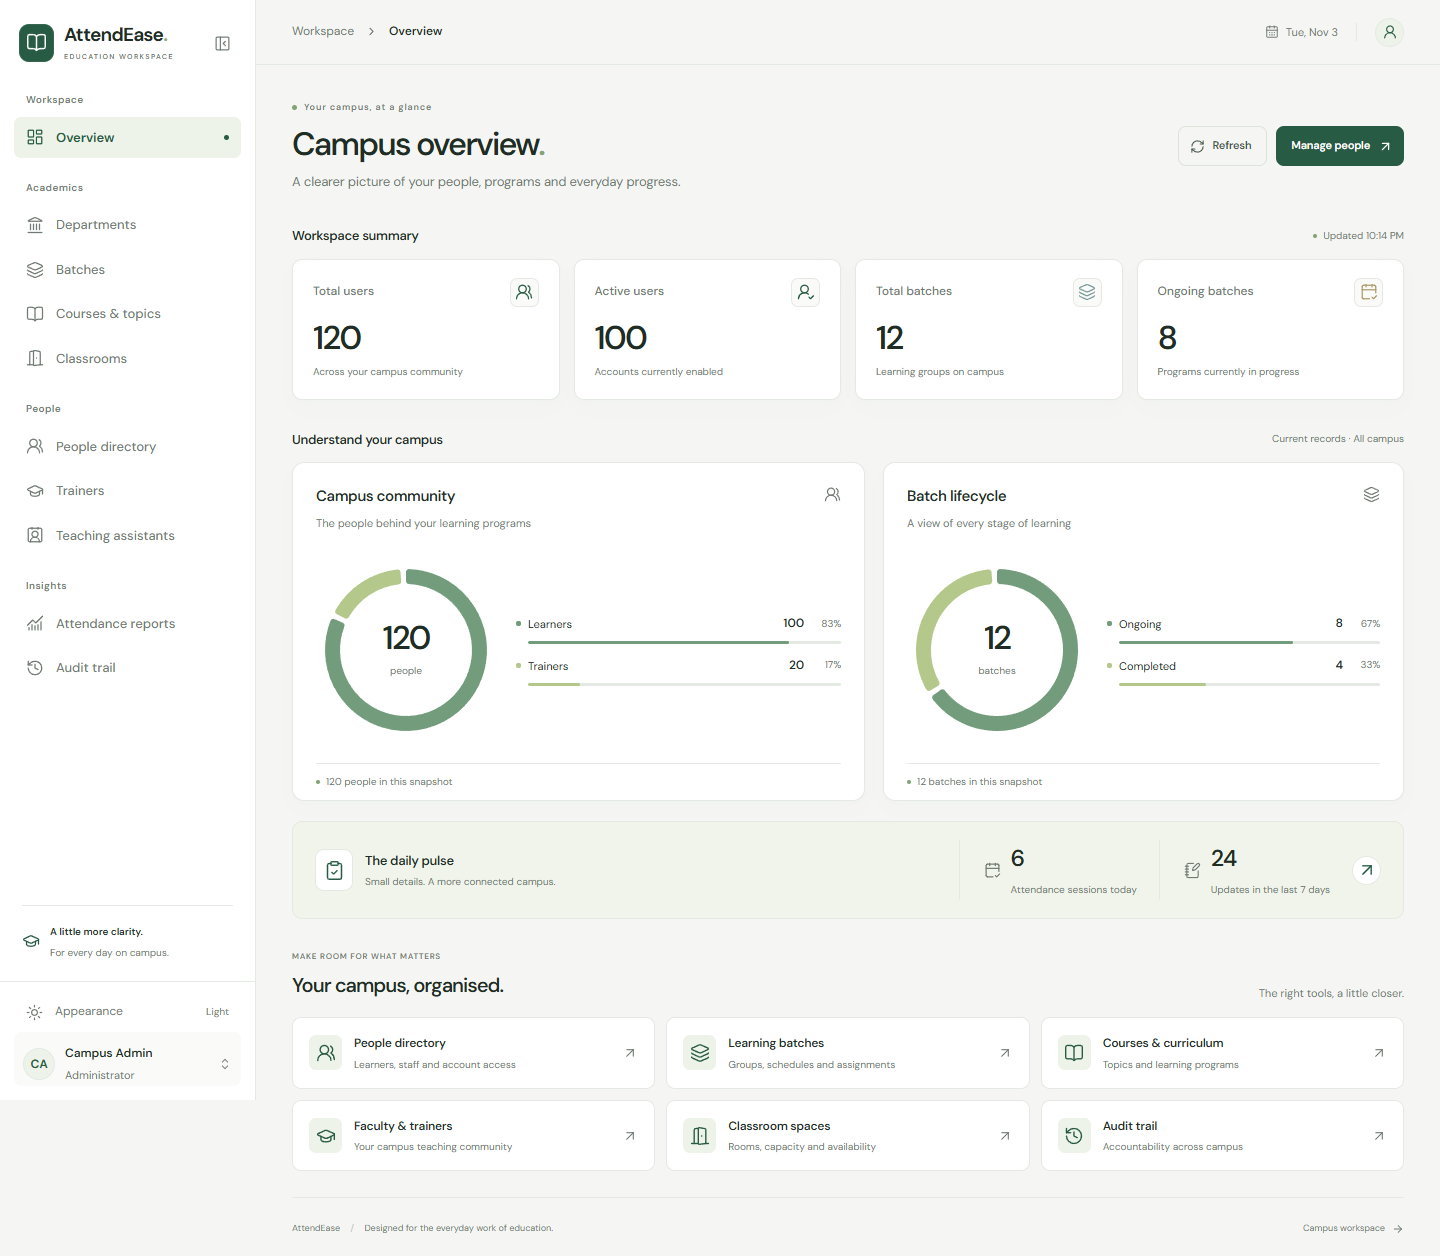
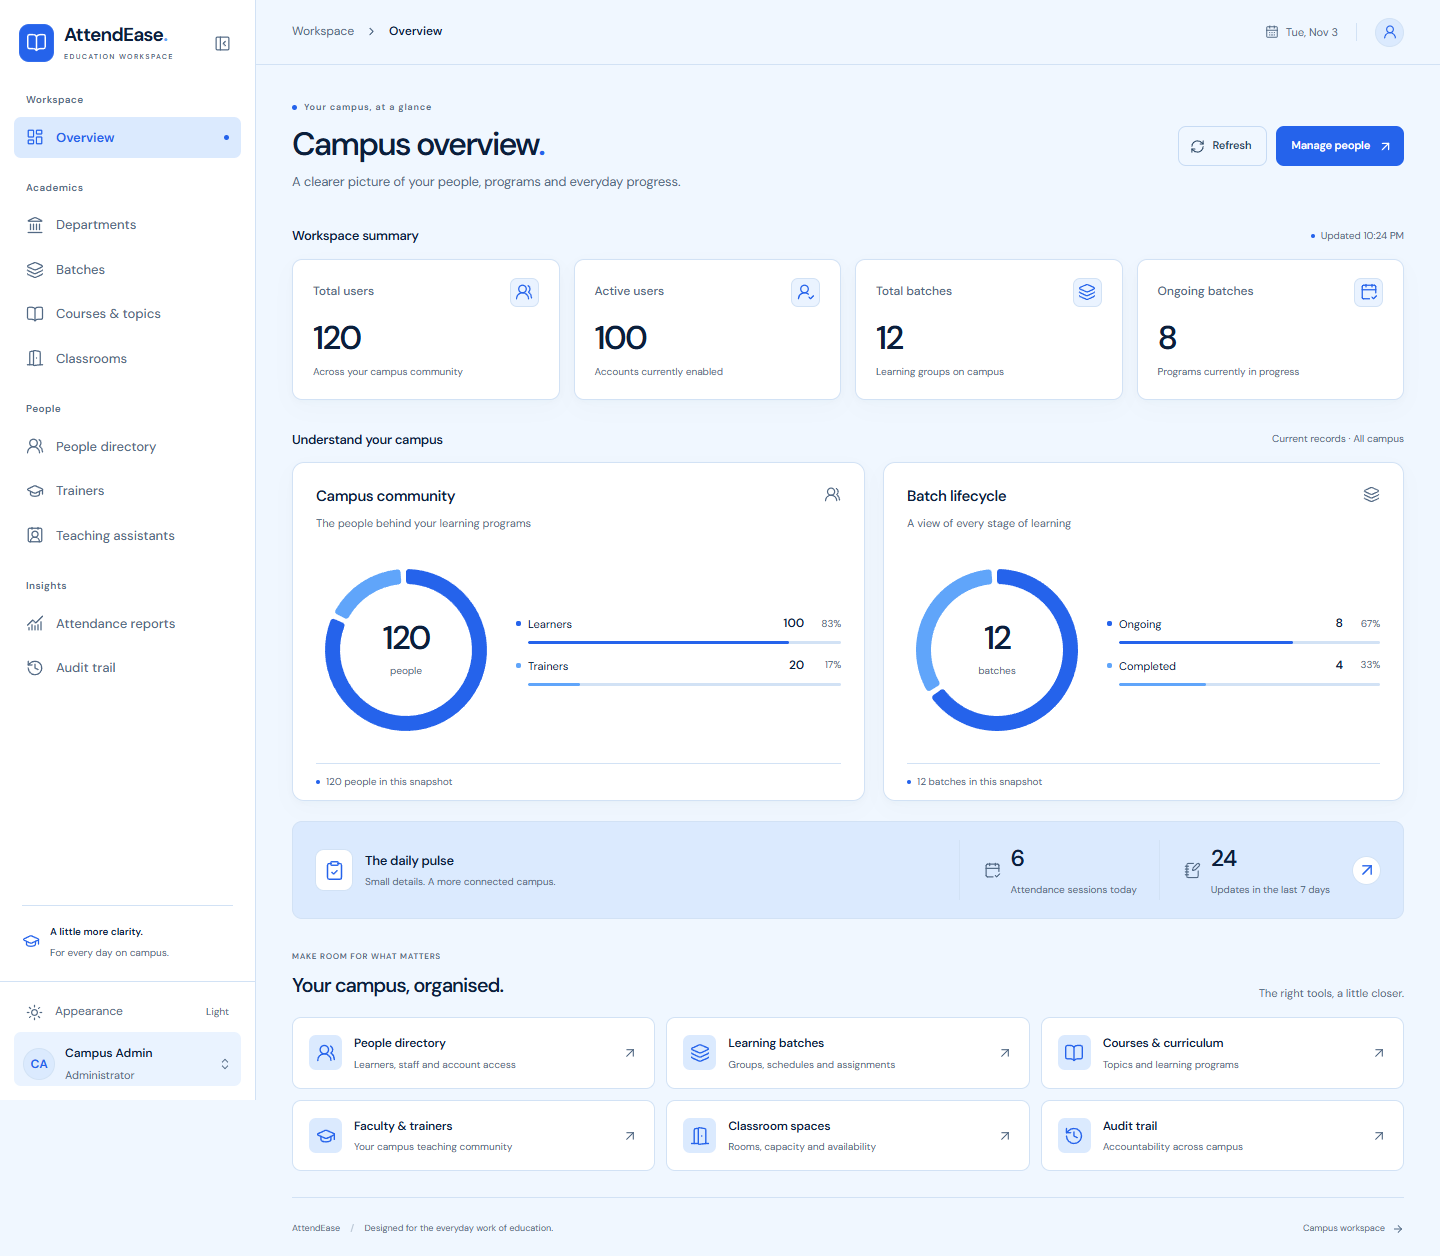
style(ui): apply requested navy and blue palette

diff --git a/frontend/src/index.css b/frontend/src/index.css
@@ -12,14 +12,14 @@ body {
   font-family: 'DM Sans Variable', 'DM Sans', system-ui, sans-serif;
   -webkit-font-smoothing: antialiased;
   -moz-osx-font-smoothing: grayscale;
-  background-color: #f5f6f3;
-  color: #202d25;
+  background-color: #F0F7FF;
+  color: #0B1F3B;
   transition: background-color 0.2s ease, color 0.2s ease;
 }
 
 html.dark body {
-  background-color: #111614;
-  color: #edf2ed;
+  background-color: #081426;
+  color: #F0F7FF;
 }
 
 #root {
@@ -286,27 +286,27 @@ html.dark .border-green-100 {
 
 /* AttendEase workspace design system */
 :root {
-  --campus-bg: #f5f6f3;
+  --campus-bg: #F0F7FF;
   --campus-surface: #fff;
-  --campus-elevated: #fafbf8;
-  --campus-text: #202d25;
-  --campus-muted: #717b73;
-  --campus-border: #e5e9e3;
-  --campus-accent: #285b43;
-  --campus-accent-soft: #edf3e9;
-  --campus-tint: #f1f4eb;
-  --campus-shadow: 0 2px 5px #263b2b03, 0 8px 24px #263b2b03;
+  --campus-elevated: #EAF3FF;
+  --campus-text: #0B1F3B;
+  --campus-muted: #526984;
+  --campus-border: #D2E2F5;
+  --campus-accent: #2563EB;
+  --campus-accent-soft: #DBEAFE;
+  --campus-tint: #DBEAFE;
+  --campus-shadow: 0 2px 5px #0b1f3b05, 0 8px 24px #0b1f3b05;
 }
 html.dark {
-  --campus-bg: #111614;
-  --campus-surface: #191f1c;
-  --campus-elevated: #1e2621;
-  --campus-text: #edf2ed;
-  --campus-muted: #a3aea6;
-  --campus-border: #2c352f;
-  --campus-accent: #a8d5b7;
-  --campus-accent-soft: #263b2d;
-  --campus-tint: #222d25;
+  --campus-bg: #081426;
+  --campus-surface: #0B1F3B;
+  --campus-elevated: #102747;
+  --campus-text: #F0F7FF;
+  --campus-muted: #AFC6E1;
+  --campus-border: #233D60;
+  --campus-accent: #60A5FA;
+  --campus-accent-soft: #15345C;
+  --campus-tint: #102747;
   --campus-shadow: none;
 }
 .campus-app { color: var(--campus-text); font-size: 13px; }
@@ -317,9 +317,9 @@ a, button, input { -webkit-tap-highlight-color: transparent; }
 .campus-sidebar { position: fixed; top: 0; left: 0; bottom: 0; height: 100dvh; z-index: 50; display: flex; flex-direction: column; background: var(--campus-surface); border-right: 1px solid var(--campus-border); transition: width .2s ease; }
 .sidebar-brand { min-height: 86px; display: flex; align-items: center; padding: 0 19px; gap: 9px; }
 .brand-link { display: flex; gap: 10px; align-items: center; flex: 1; color: var(--campus-text); text-decoration: none; min-width: 0; }
-.brand-mark { width: 35px; height: 38px; border-radius: 10px; background: #285b43; color: #fff; display: grid; place-items: center; box-shadow: inset 0 0 0 1px #ffffff12; flex-shrink: 0; }
+.brand-mark { width: 35px; height: 38px; border-radius: 10px; background: #2563EB; color: #fff; display: grid; place-items: center; box-shadow: inset 0 0 0 1px #ffffff12; flex-shrink: 0; }
 .brand-link strong { font-size: 19px; font-weight: 650; letter-spacing: -.8px; line-height: 1.3; }
-.brand-period { color: #92ae7b; }
+.brand-period { color: #60A5FA; }
 .brand-link small { display: block; margin-top: 3px; font-size: 7px; font-weight: 550; letter-spacing: 1.4px; color: var(--campus-muted); }
 .sidebar-toggle.MuiIconButton-root { padding: 5px; color: var(--campus-muted); }
 .sidebar-navigation { flex: 1; overflow-y: auto; scrollbar-width: thin; padding: 6px 14px 12px; }
@@ -361,9 +361,9 @@ a, button, input { -webkit-tap-highlight-color: transparent; }
 .dashboard-view { display: grid; gap: 0; animation: workspace-reveal .45s ease-out both; }
 .dashboard-heading { display: flex; align-items: center; justify-content: space-between; gap: 24px; padding-bottom: 33px; }
 .page-eyebrow { display: flex; align-items: center; gap: 7px; font-size: 9px; font-weight: 550; letter-spacing: .1em; color: var(--campus-muted); }
-.page-eyebrow > span { width: 5px; height: 5px; border-radius: 50%; background: #83a276; }
+.page-eyebrow > span { width: 5px; height: 5px; border-radius: 50%; background: var(--campus-accent); }
 .dashboard-heading h1 { margin: 10px 0 7px; font-size: clamp(26px, 2.25vw, 35px); font-weight: 550; line-height: 1.2; letter-spacing: -.055em; }
-.heading-period { color: #83a276; }
+.heading-period { color: var(--campus-accent); }
 .dashboard-heading p { color: var(--campus-muted); font-size: 12px; letter-spacing: -.01em; }
 .dashboard-heading-actions { display: flex; gap: 9px; flex-shrink: 0; }
 .dashboard-heading-actions .MuiButton-root { font-size: 11px; }
@@ -371,14 +371,14 @@ a, button, input { -webkit-tap-highlight-color: transparent; }
 .section-meta, .analytics-section-heading { display: flex; justify-content: space-between; align-items: center; gap: 12px; margin-bottom: 12px; }
 .section-meta h2, .analytics-section-heading h2 { font-size: 12px; font-weight: 550; letter-spacing: -.02em; }
 .section-meta > span, .analytics-section-heading > span { display: flex; align-items: center; gap: 6px; font-size: 9px; color: var(--campus-muted); }
-.small-status-dot { display: inline-block; width: 4px; height: 4px; border-radius: 50%; background: #83a276; flex-shrink: 0; }
+.small-status-dot { display: inline-block; width: 4px; height: 4px; border-radius: 50%; background: var(--campus-accent); flex-shrink: 0; }
 .metric-grid { display: grid; grid-template-columns: repeat(4, minmax(0, 1fr)); gap: 14px; margin-bottom: 29px; }
 .metric-card.MuiPaper-root { padding: 18px 20px; border: 1px solid var(--campus-border); border-radius: 10px; box-shadow: var(--campus-shadow); transition: border-color .2s, box-shadow .2s; }
-.metric-card:hover { border-color: #90a18f; }
+.metric-card:hover { border-color: #60A5FA; }
 .metric-heading { display: flex; align-items: center; justify-content: space-between; gap: 9px; color: var(--campus-muted); font-size: 11px; font-weight: 500; }
 .metric-icon { display: grid; place-items: center; width: 29px; height: 29px; border: 1px solid var(--campus-border); border-radius: 7px; color: var(--campus-accent); background: var(--campus-elevated); }
-.metric-warning .metric-icon { color: #b19b6d; }
-.metric-info .metric-icon { color: #7a9b9b; }
+.metric-warning .metric-icon { color: var(--campus-accent); }
+.metric-info .metric-icon { color: var(--campus-accent); }
 .metric-value { font-size: 33px; font-weight: 550; line-height: 1.3; letter-spacing: -.055em; font-variant-numeric: tabular-nums; margin: 10px 0 5px; }
 .metric-caption { font-size: 9px; color: var(--campus-muted); }
 .analytics-grid { display: grid; grid-template-columns: 1.1fr 1fr; gap: 18px; margin-bottom: 20px; }
@@ -421,7 +421,7 @@ a, button, input { -webkit-tap-highlight-color: transparent; }
 .resource-section-heading > p { font-size: 10px; color: var(--campus-muted); }
 .resource-grid { display: grid; grid-template-columns: repeat(3, minmax(0, 1fr)); gap: 11px; }
 .resource-card { display: flex; align-items: center; gap: 12px; border: 1px solid var(--campus-border); border-radius: 9px; background: var(--campus-surface); color: var(--campus-text); padding: 16px; text-decoration: none; transition: border-color .15s, background .15s; min-width: 0; }
-.resource-card:hover { border-color: #95aa96; background: var(--campus-elevated); }
+.resource-card:hover { border-color: #60A5FA; background: var(--campus-elevated); }
 .resource-icon { width: 33px; height: 35px; display: grid; place-items: center; border-radius: 7px; background: var(--campus-accent-soft); color: var(--campus-accent); flex-shrink: 0; }
 .resource-card > div { flex: 1; min-width: 0; }
 .resource-card h3 { font-size: 11px; font-weight: 550; letter-spacing: -.015em; }

diff --git a/frontend/src/theme.js b/frontend/src/theme.js
@@ -5,11 +5,11 @@ export const createCampusTheme = mode => {
     return createTheme({
         palette: {
             mode,
-            primary: { main: dark ? '#a8d5b7' : '#285b43', contrastText: dark ? '#15271c' : '#ffffff' },
-            secondary: { main: dark ? '#c8b88b' : '#8a7242' },
-            background: { default: dark ? '#111614' : '#f5f6f3', paper: dark ? '#191f1c' : '#ffffff' },
-            text: { primary: dark ? '#edf2ed' : '#202d25', secondary: dark ? '#a3aea6' : '#717b73' },
-            divider: dark ? '#2c352f' : '#e5e9e3',
+            primary: { main: '#2563EB', contrastText: '#ffffff' },
+            secondary: { main: '#60A5FA' },
+            background: { default: dark ? '#081426' : '#F0F7FF', paper: dark ? '#0B1F3B' : '#ffffff' },
+            text: { primary: dark ? '#F0F7FF' : '#0B1F3B', secondary: dark ? '#AFC6E1' : '#526984' },
+            divider: dark ? '#233D60' : '#D2E2F5',
             success: { main: dark ? '#9dccab' : '#397957' },
         },
         shape: { borderRadius: 12 },
@@ -31,13 +31,13 @@ export const createCampusTheme = mode => {
             MuiPaper: { defaultProps: { elevation: 0 }, styleOverrides: { root: { backgroundImage: 'none' } } },
             MuiButton: { defaultProps: { disableElevation: true }, styleOverrides: {
                 root: { borderRadius: 8, padding: '9px 15px', fontSize: '.8125rem', boxShadow: 'none', minHeight: 38 },
-                outlined: { borderColor: dark ? '#354139' : '#dce3da', color: dark ? '#d7e3d9' : '#45554a', '&:hover': { borderColor: dark ? '#6c8573' : '#9aac9d', background: dark ? '#253027' : '#f1f5ee' } },
+                outlined: { borderColor: dark ? '#315074' : '#C7DBF4', color: dark ? '#DBEAFE' : '#274361', '&:hover': { borderColor: dark ? '#60A5FA' : '#60A5FA', background: dark ? '#15345C' : '#DBEAFE' } },
             } },
-            MuiOutlinedInput: { styleOverrides: { root: { borderRadius: 8, fontSize: '.875rem' }, notchedOutline: { borderColor: dark ? '#3a453e' : '#dce3da' } } },
+            MuiOutlinedInput: { styleOverrides: { root: { borderRadius: 8, fontSize: '.875rem' }, notchedOutline: { borderColor: dark ? '#315074' : '#C7DBF4' } } },
             MuiInputLabel: { styleOverrides: { root: { fontSize: '.875rem' } } },
             MuiChip: { styleOverrides: { root: { borderRadius: 6, fontSize: '.7rem', fontWeight: 550 } } },
             MuiIconButton: { styleOverrides: { root: { borderRadius: 8 } } },
-            MuiTableCell: { styleOverrides: { root: { borderColor: dark ? '#2c352f' : '#e5e9e3', fontSize: '.8125rem', padding: '14px 18px' }, head: { fontSize: '.6875rem', fontWeight: 600, letterSpacing: '.045em', color: dark ? '#a3aea6' : '#717b73', background: dark ? '#1d2520' : '#f8faf6' } } },
+            MuiTableCell: { styleOverrides: { root: { borderColor: dark ? '#233D60' : '#D2E2F5', fontSize: '.8125rem', padding: '14px 18px' }, head: { fontSize: '.6875rem', fontWeight: 600, letterSpacing: '.045em', color: dark ? '#AFC6E1' : '#526984', background: dark ? '#102747' : '#F0F7FF' } } },
             MuiTooltip: { styleOverrides: { tooltip: { borderRadius: 6, fontSize: '.7rem', padding: '6px 10px' } } },
         },
     })

diff --git a/frontend/src/pages/Login.css b/frontend/src/pages/Login.css
@@ -1,16 +1,16 @@
 .login-shell { min-height: 100vh; min-height: 100dvh; display: grid; grid-template-columns: minmax(340px, 0.9fr) minmax(0, 1.1fr); background: var(--campus-bg); }
-.login-story { position: relative; isolation: isolate; overflow: hidden; display: flex; flex-direction: column; padding: clamp(28px, 5vw, 72px); color: white; background: linear-gradient(145deg, #142c22, #28513b 60%, #47674e); }
+.login-story { position: relative; isolation: isolate; overflow: hidden; display: flex; flex-direction: column; padding: clamp(28px, 5vw, 72px); color: white; background: linear-gradient(145deg, #0B1F3B, #123C72 60%, #2563EB); }
 .login-story > :not(.login-orbit) { position: relative; z-index: 1; }
 .login-story-content { max-width: 510px; }
-.login-eyebrow { font-size: 10px; font-weight: 550; letter-spacing: .16em; text-transform: uppercase; color: #b8cfb0; margin-bottom: 18px; }
+.login-eyebrow { font-size: 10px; font-weight: 550; letter-spacing: .16em; text-transform: uppercase; color: #93C5FD; margin-bottom: 18px; }
 .login-headline { font-size: clamp(32px, 3.5vw, 54px); line-height: 1.12; letter-spacing: -.04em; font-weight: 700; margin-bottom: 22px; }
-.login-description { color: #d0ddcf; line-height: 1.8; max-width: 390px; margin-bottom: 32px; }
+.login-description { color: #DBEAFE; line-height: 1.8; max-width: 390px; margin-bottom: 32px; }
 .login-main { display: flex; align-items: center; justify-content: center; padding: 32px; min-width: 0; }
 .login-card { animation: login-arrive .65s ease-out both; box-shadow: 0 20px 70px #1624470a !important; }
 .login-shell .lucide { width: 19px; height: 19px; stroke-width: 1.7; }
 .login-shell .login-brand-icon { width: 26px; height: 26px; stroke-width: 1.5; }
 .login-orbit { position: absolute; z-index: 0; border: 1px solid #ffffff16; border-radius: 50%; pointer-events: none; animation: login-drift 16s ease-in-out infinite alternate; }
-.login-orbit-one { width: 650px; height: 650px; right: -400px; top: -230px; background: radial-gradient(circle, #a5b4fc16, transparent 65%); }
+.login-orbit-one { width: 650px; height: 650px; right: -400px; top: -230px; background: radial-gradient(circle, #60a5fa16, transparent 65%); }
 .login-orbit-two { width: 480px; height: 480px; left: -250px; bottom: -240px; animation-delay: -8s; }
 @keyframes login-arrive { from { opacity: 0; transform: translateY(14px); } to { opacity: 1; transform: translateY(0); } }
 @keyframes login-drift { to { transform: translate3d(22px, 28px, 0) scale(1.07); } }

diff --git a/frontend/tailwind.config.js b/frontend/tailwind.config.js
@@ -12,16 +12,16 @@ export default {
             },
             colors: {
                 primary: {
-                    50: '#f1f6f0',
-                    100: '#e3eedf',
-                    200: '#cddfc6',
-                    300: '#a9c4a2',
-                    400: '#7ca279',
-                    500: '#527d58',
-                    600: '#3b6243',
-                    700: '#2a4c34',
-                    800: '#203c2a',
-                    900: '#182e21',
+                    50: '#F0F7FF',
+                    100: '#DBEAFE',
+                    200: '#BFDBFE',
+                    300: '#93C5FD',
+                    400: '#60A5FA',
+                    500: '#3B82F6',
+                    600: '#2563EB',
+                    700: '#1D4ED8',
+                    800: '#1E40AF',
+                    900: '#0B1F3B',
                 },
             },
         },

diff --git a/frontend/src/pages/Dashboard.jsx b/frontend/src/pages/Dashboard.jsx
@@ -6,7 +6,7 @@ import { ResponsiveContainer, PieChart, Pie, Cell, Tooltip } from 'recharts'
 import { dashboardAPI } from '../services/api'
 import StatsCard from '../components/ui/StatsCard'
 
-const COLORS = ['#729c7b', '#b4c88c', '#d7bc82', '#8caeac', '#a49bb9', '#ce9f8d']
+const COLORS = ['#2563EB', '#60A5FA', '#93C5FD', '#38BDF8', '#818CF8', '#BFDBFE']
 const names = { ADMIN: 'Administrators', MANAGER: 'Managers', TEAM_LEADER: 'Team leaders', TRAINER: 'Trainers', TA: 'Teaching assistants', LEARNER: 'Learners', PLANNING: 'Planning', ONGOING: 'Ongoing', COMPLETED: 'Completed', CANCELLED: 'Cancelled' }
 const label = value => names[value] || String(value || 'Unspecified').toLowerCase().replaceAll('_', ' ')
 

diff --git a/frontend/index.html b/frontend/index.html
@@ -5,7 +5,7 @@
   <meta charset="UTF-8" />
   <link rel="icon" type="image/svg+xml" href="/favicon.svg" />
   <meta name="viewport" content="width=device-width, initial-scale=1.0" />
-  <meta name="theme-color" content="#285b43" />
+  <meta name="theme-color" content="#0B1F3B" />
   <title>AttendEase — Campus Workspace</title>
   <meta name="description" content="A focused education workspace for your people, programs and everyday campus operations." />
 </head>

diff --git a/docs/PREMIUM-UI-DESIGN.md b/docs/PREMIUM-UI-DESIGN.md
@@ -5,7 +5,7 @@ Date: 2026-11-03. User direction: replace the generic appearance in the supplied
 ## Design contract
 - Retain existing routes, role permissions, real API metrics and error/empty states.
 - Self-host DM Sans Variable; replace the mix of filled navigation glyphs with Lucide outline icons at consistent 18–20px sizes and 1.7px stroke.
-- Use warm off-white/forest accents in light mode, charcoal/soft sage in dark mode, low-contrast borders, restrained elevation and a consistent 12px panel radius.
+- Use the user's navy-and-blue palette: #0B1F3B primary, #2563EB accent, #60A5FA secondary, #DBEAFE surface and #F0F7FF background. Dark mode uses the primary navy for panels with a deeper background and readable light text. Keep restrained elevation and a consistent 12px panel radius.
 - Add a workspace bar with breadcrumbs and profile access; group navigation by purpose with quiet active states and accessible collapsed labels.
 - Compact statistics with tabular numerals, contextual captions and small icon treatments. No fabricated changes, sparklines or trend percentages.
 - Give donut charts meaningful center totals and compact proportional legends; respect empty and single-category data.
@@ -26,7 +26,7 @@ Date: 2026-11-03. User direction: replace the generic appearance in the supplied
 - Lucide outline icons across navigation, dashboard and authentication forms; matching book mark for the product identity.
 - Grouped sidebar, accessible account menu, workspace breadcrumb bar and profile shortcut.
 - Rebuilt overview with compact metrics, center-total donut charts, proportional legends, daily pulse and resource links.
-- Auth surfaces use the same forest palette, font, icon style and explicit corner radius.
+- Auth surfaces use the same navy-and-blue palette, font, icon style and explicit corner radius.
 - Responsive layouts, mobile menu dismissal, visible keyboard focus and reduced-motion support.
 
 ## Verification
@@ -39,3 +39,8 @@ Date: 2026-11-03. User direction: replace the generic appearance in the supplied
 - Browser API data is an isolated fixture; production analytics still use the existing authenticated API. This pass does not claim live MongoDB verification.
 
 Font and icon setup follows [Fontsource DM Sans](https://fontsource.org/fonts/dm-sans/use) and [Lucide React](https://lucide.dev/guide/react/).
+
+## User palette update
+Applied the five hex colors from the user's supplied reference image to the shared theme, CSS tokens, Tailwind scale, charts, auth gradient, favicon and browser theme color. White is retained for light-mode cards; #DBEAFE is used for tinted surfaces and selected navigation. Green remains only for semantic success states, not branding. Added browser assertions for the exact light-mode colors and primary navy dark surfaces.
+
+Palette verification: production build passed using the committed Vite configuration; full browser suite passed with exact color assertions, light/dark persistence and desktop/tablet/mobile checks. Updated screenshots were visually reviewed in both themes. No backend behavior changed.
